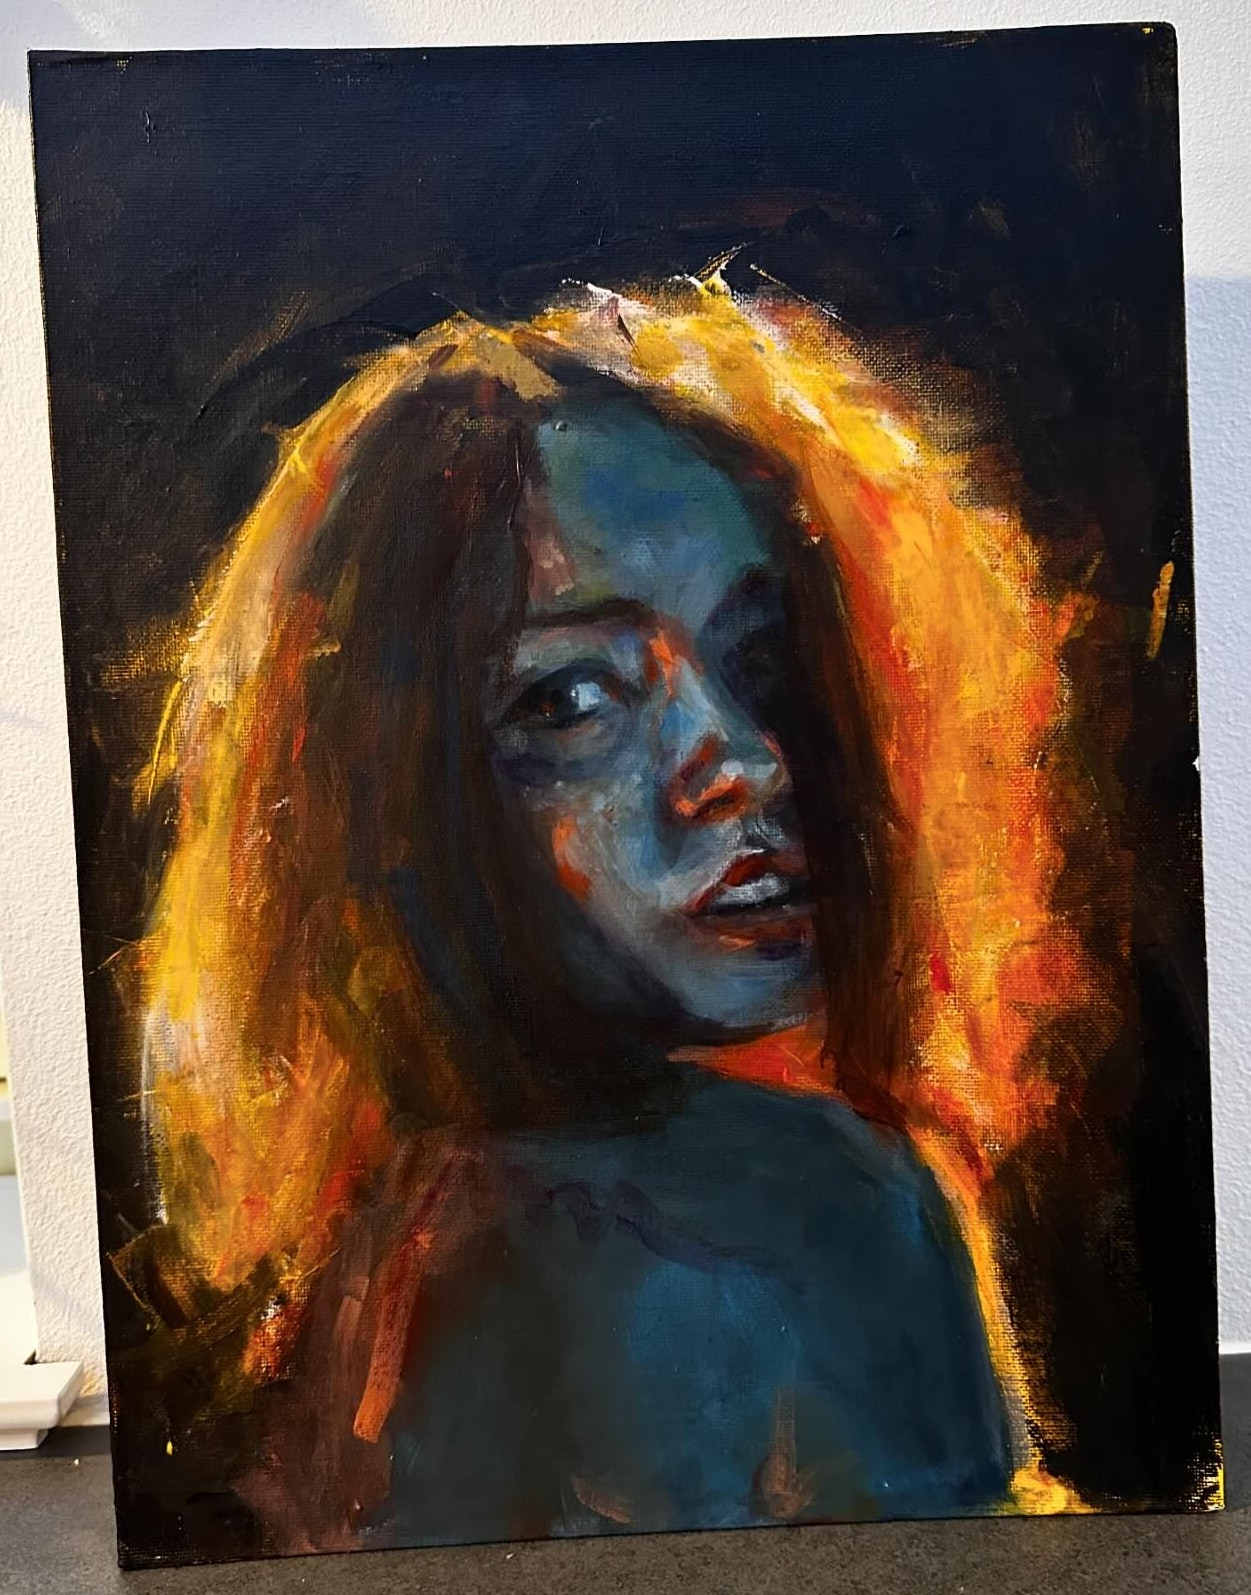
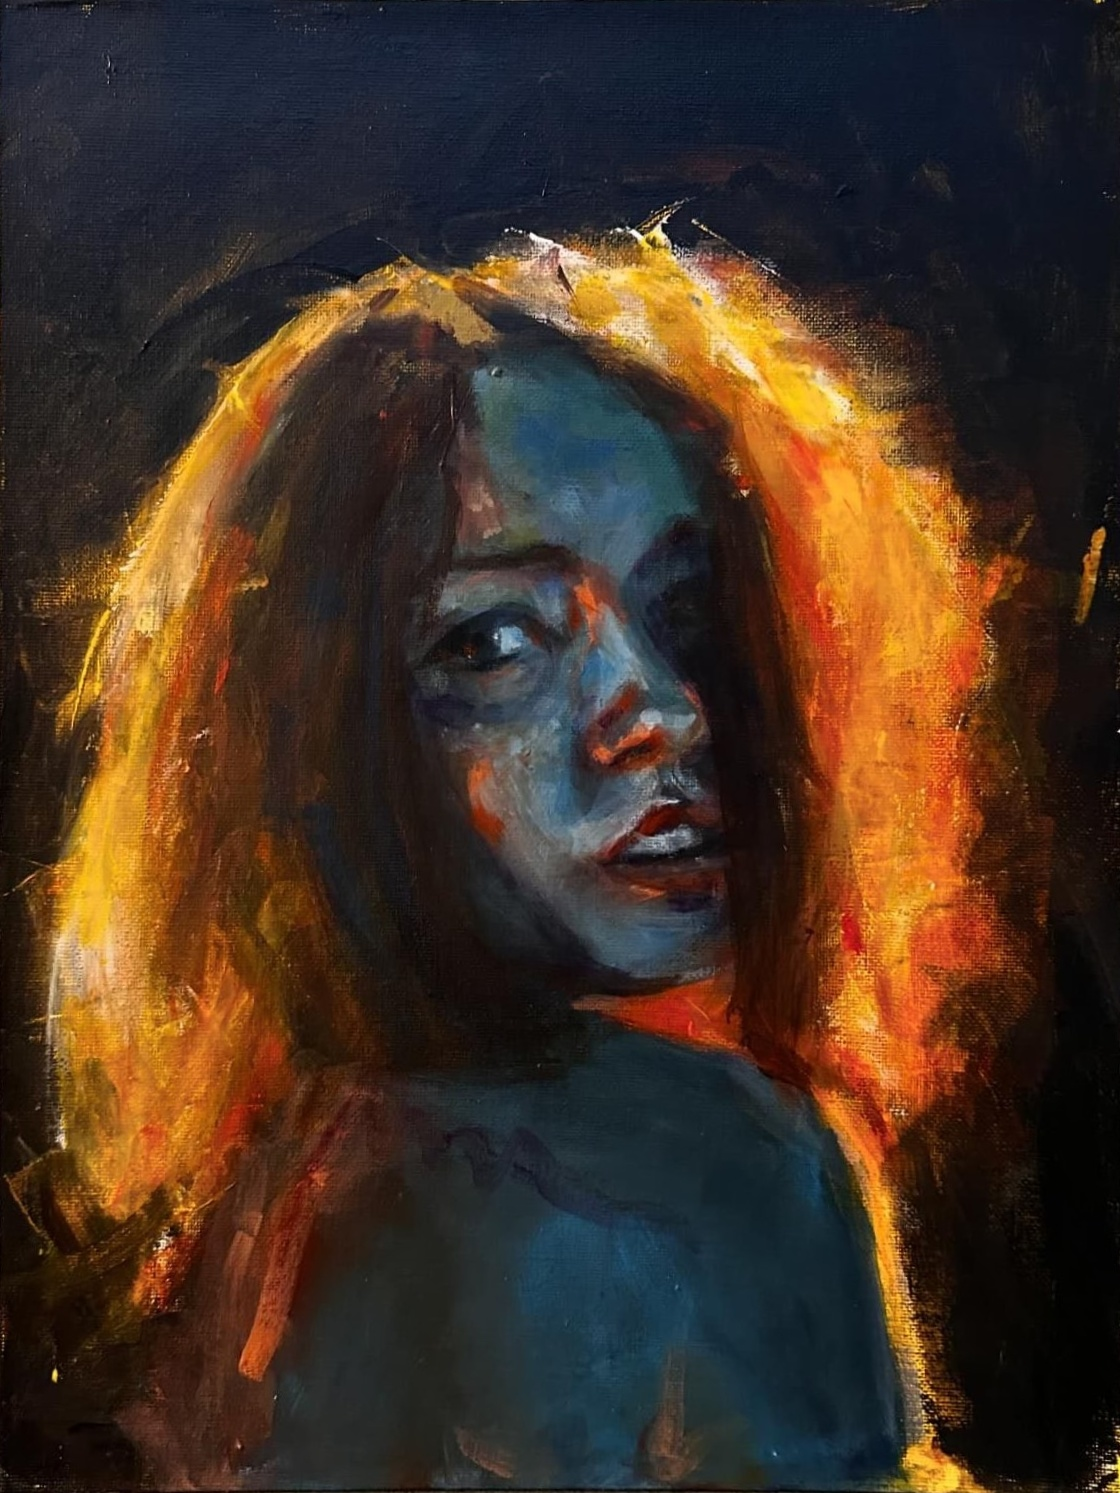
ungroup

diff --git a/src/site.config.ts b/src/site.config.ts
@@ -41,22 +41,13 @@ export type Medium = keyof typeof mediums;
 
 /**
  * Size categories, each with its own page (/large, /medium, /small), worked out
- * from each artwork's "dimensions" using its longest side in cm.
+ * from each artwork's "dimensions" by area (width × height in cm²).
+ * 2,500 cm² is about 50 × 50 cm; 950 cm² is about 31 × 31 cm.
  */
 export const sizes = [
-  { key: 'large', label: 'Large', description: 'Over 60 cm', minLongestSide: 61 },
-  { key: 'medium', label: 'Medium', description: '31–60 cm', minLongestSide: 31 },
-  { key: 'small', label: 'Small', description: 'Up to 30 cm', minLongestSide: 0 },
+  { key: 'large', label: 'Large', description: 'From about 50 × 50 cm', minArea: 2500 },
+  { key: 'medium', label: 'Medium', description: 'From about 31 × 31 cm', minArea: 950 },
+  { key: 'small', label: 'Small', description: 'Under about 31 × 31 cm', minArea: 0 },
 ] as const;
 
 export type Size = (typeof sizes)[number]['key'];
-
-/**
- * Sets of similar pieces shown as a single tile in the gallery. Put an artwork
- * in a set by adding e.g. "group": "small-studies" to its artwork.json.
- * Each piece can still be opened and bought on its own.
- */
-export const groups: Record<string, { title: string }> = {
-  'small-studies': { title: 'Small studies' },
-  'charcoal-sketches': { title: 'Charcoal sketches' },
-};

diff --git a/src/scripts/gallery.ts b/src/scripts/gallery.ts
@@ -121,15 +121,9 @@ function createCarousel(root: HTMLElement): Carousel | null {
   };
 }
 
-/** Artwork ids in gallery order, for the visible tiles (a set's tile expands to all its pieces). */
+/** Artwork ids of the visible tiles, in gallery order. */
 function sequence(): string[] {
-  return tiles.filter((t) => !t.hidden).flatMap((t) => (t.dataset.members || t.dataset.id!).split(' '));
-}
-
-/** The tile showing an artwork: its own tile, or the tile of the set it belongs to. */
-function tileFor(id: string | null): HTMLElement | undefined {
-  if (!id) return undefined;
-  return tiles.find((t) => t.dataset.id === id || (t.dataset.members ?? '').split(' ').includes(id));
+  return tiles.filter((t) => !t.hidden).map((t) => t.dataset.id!);
 }
 
 /** The visible artwork before (-1) or after (1) the open one, in gallery order. */
@@ -166,7 +160,7 @@ async function switchArtwork(id: string, direction: number, fromButton: boolean)
     carousel?.sync();
     history.replaceState({ artwork: id }, '', artworkUrl(id));
     // Keep the tile in view behind the overlay, so closing can animate back to it.
-    tileFor(id)?.scrollIntoView({ block: 'center' });
+    tiles.find((t) => t.dataset.id === id)?.scrollIntoView({ block: 'center' });
     const fresh = overlayBody.querySelector('.detail');
     if (fresh) {
       await fresh.animate(

diff --git a/src/lib/artworks.ts b/src/lib/artworks.ts
@@ -42,7 +42,7 @@ export interface Artwork {
   data: CollectionEntry<'artworks'>['data'];
   mediumLabel: string;
   priceLabel: string;
-  /** Size category for the gallery filters, from the longest side of `dimensions`. */
+  /** Size category (large / medium / small), from the area given by `dimensions`. */
   size: Size;
   aspect: number;
   /** Tile-sized cover image for the grid. */
@@ -88,12 +88,12 @@ function mediaFor(id: string): MediaSource[] {
     .map(([, item]) => item);
 }
 
-/** Size category from free-text dimensions like "60 × 80 cm" (medium if unreadable). */
+/** Size category from free-text dimensions like "60 × 80 cm", by area (medium if unreadable). */
 export function sizeOf(dimensions: string | undefined): Size {
   const numbers = (dimensions?.match(/\d+(\.\d+)?/g) ?? []).map(Number);
-  if (numbers.length === 0) return 'medium';
-  const longest = Math.max(...numbers);
-  return (sizes.find((s) => longest >= s.minLongestSide) ?? sizes[sizes.length - 1]).key;
+  if (numbers.length < 2) return 'medium';
+  const area = numbers[0] * numbers[1];
+  return (sizes.find((s) => area >= s.minArea) ?? sizes[sizes.length - 1]).key;
 }
 
 export function formatAmount(amount: number, currency?: string): string {

diff --git a/src/content.config.ts b/src/content.config.ts
@@ -1,7 +1,7 @@
 import { defineCollection } from 'astro:content';
 import { glob } from 'astro/loaders';
 import { z } from 'astro/zod';
-import { groups, mediums, type Medium } from './site.config';
+import { mediums, type Medium } from './site.config';
 
 const mediumKeys = Object.keys(mediums) as [Medium, ...Medium[]];
 
@@ -35,10 +35,6 @@ const artworks = defineCollection({
     instagram: z.url().optional(),
     /** Lower numbers appear first. Artworks without it are sorted newest first. */
     order: z.number().optional(),
-    /** Show in the selection at the top of the gallery, before "See all". */
-    featured: z.boolean().default(false),
-    /** Id of a set in `groups` (site.config.ts); the set is shown as one tile. */
-    group: z.enum(Object.keys(groups) as [string, ...string[]]).optional(),
   }),
 });
 

diff --git a/src/styles/global.css b/src/styles/global.css
@@ -258,26 +258,6 @@ h3 {
     box-shadow 0.35s var(--ease);
 }
 
-/* Sets of pieces: two cards peeking out behind the cover, like a small stack. */
-.tile-group .tile-frame::before,
-.tile-group .tile-frame::after {
-  content: '';
-  position: absolute;
-  inset: 0;
-  z-index: -1;
-  background: #ebe7df;
-  box-shadow: 0 1px 3px rgb(28 27 25 / 0.2);
-}
-
-.tile-group .tile-frame::before {
-  transform: translate(7px, -7px);
-}
-
-.tile-group .tile-frame::after {
-  transform: translate(14px, -14px);
-  background: #f0ede6;
-}
-
 .tile-frame img {
   width: 100%;
   height: 100%;

diff --git a/README.md b/README.md
@@ -49,12 +49,10 @@ This creates `src/content/artworks/harbour-at-dusk/artwork.json`. Then:
 | `alt` | no | Description of the main image for screen readers. Defaults to the title. |
 | `order` | no | Position in the gallery, lowest first. Existing pieces are numbered 10, 20, 30… in the order of the original Google Doc, so use e.g. `5` to put a new piece first or `25` to slot it between the 2nd and 3rd. Pieces without `order` appear after all numbered ones, newest first. |
 | `instagram` | no | Link to the Instagram post; shown as "View on Instagram". |
-| `featured` | no | `true` to use the piece as one of the example images on the home page's Large / Medium / Small cards (up to three per size, featured pieces first). |
-| `group` | no | Put similar pieces into one gallery tile, e.g. `"small-studies"` or `"charcoal-sketches"`. The sets are named in `groups` in `src/site.config.ts`. Each piece can still be opened and bought on its own. |
 
 The folder name becomes the page address: `/art/harbour-at-dusk`. If a field is misspelled or has the wrong type, `npm run dev` / `npm run build` stops and names the field.
 
-To add a medium, add a line to `mediums` in `src/site.config.ts`. To add a set of pieces, add it to `groups` there.
+To add a medium, add a line to `mediums` in `src/site.config.ts`.
 
 ## Site structure
 
@@ -63,7 +61,7 @@ To add a medium, add a line to `mediums` in `src/site.config.ts`. To add a set o
 - `/all`: every piece
 - `/art/<folder-name>`: a single piece, opened over the gallery for its size
 
-Sizes are worked out from `dimensions` using the longest side: over 60 cm is large, 31–60 cm medium, 30 cm and under small. The limits and labels are in `sizes` in `src/site.config.ts`.
+Sizes are worked out from the area in `dimensions` (width × height): 2,500 cm² or more is large (about 50 × 50 cm and up), 950 cm² or more is medium (about 31 × 31 cm and up), anything smaller is small. The limits and labels are in `sizes` in `src/site.config.ts`.
 
 ## Straightening and cropping photos
 
